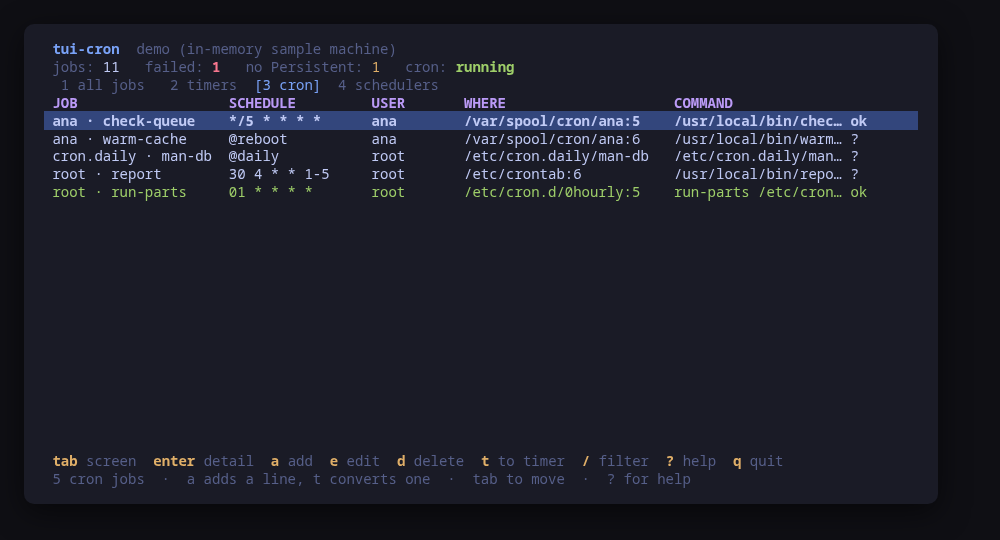
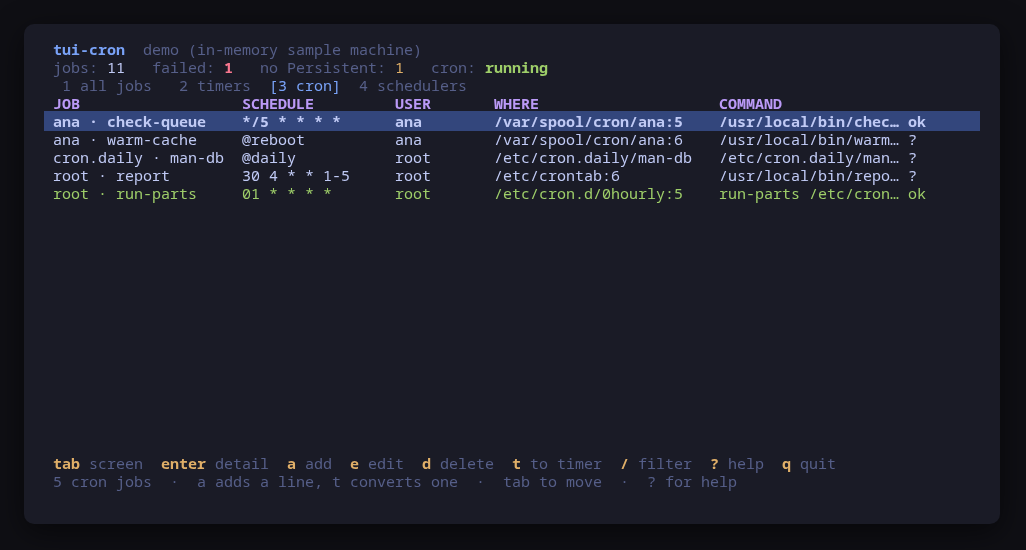
0.2.2: tui-kit v0.4.4
tui-cron 0.2.2 moves to tui-kit v0.4.4: every command now runs in its own session without a controlling terminal, so a step that would prompt fails at once instead of hanging behind the UI, and a failed step reports its meaningful line, cleaned of escape codes. Command previews are POSIX shell-quoted (a calendar expression now reads as `'*-*-* 03:00:00'`), the README screenshots are re-rendered with continuous box borders, and the README banner now carries the kit's stability markers.

Claude-Session: https://claude.ai/code/session_01MbCfX3T8khyd9hsrN5kMo3

Changed region(s): [[0.031, 0.0593, 0.961, 0.3852], [0.031, 0.8296, 0.93, 0.9481]]

diff --git a/internal/timers/command_test.go b/internal/timers/command_test.go
@@ -118,7 +118,7 @@ func TestCalendarArgv(t *testing.T) {
 	if err != nil {
 		t.Fatalf("BuildCalendar: %v", err)
 	}
-	want := "systemd-analyze calendar --iterations=5 *-*-* 03:00:00"
+	want := "systemd-analyze calendar --iterations=5 '*-*-* 03:00:00'"
 	if got := cmd.String(); got != want {
 		t.Errorf("BuildCalendar = %q, want %q", got, want)
 	}

diff --git a/README.md b/README.md
@@ -3,9 +3,11 @@
 [![OpenSSF Scorecard](https://api.securityscorecards.dev/projects/github.com/tui-tools/tui-cron/badge)](https://scorecard.dev/viewer/?uri=github.com/tui-tools/tui-cron)
 [![OpenSSF Best Practices](https://www.bestpractices.dev/projects/14368/badge)](https://www.bestpractices.dev/projects/14368)
 
+<!-- stability:start -->
 > **Beta.** The family is days old and still changing. Package names, flags
 > and keys may move without notice until 1.0. Pin versions, and report what
 > breaks.
+<!-- stability:end -->
 
 Every scheduled job on the machine, on one screen. **systemd timers and cron
 together**, with the schedule written out in English next to the expression that
@@ -131,7 +133,7 @@ Upgrades then arrive with the rest of your system updates.
 ### Any distribution, static binary
 
 ```sh
-curl -fsSL https://github.com/tui-tools/tui-cron/releases/download/v0.2.1/tui-cron_0.2.1_linux_amd64.tar.gz | tar -xz tui-cron
+curl -fsSL https://github.com/tui-tools/tui-cron/releases/download/v0.2.2/tui-cron_0.2.2_linux_amd64.tar.gz | tar -xz tui-cron
 sudo install -m0755 tui-cron /usr/local/bin/tui-cron
 ```
 
